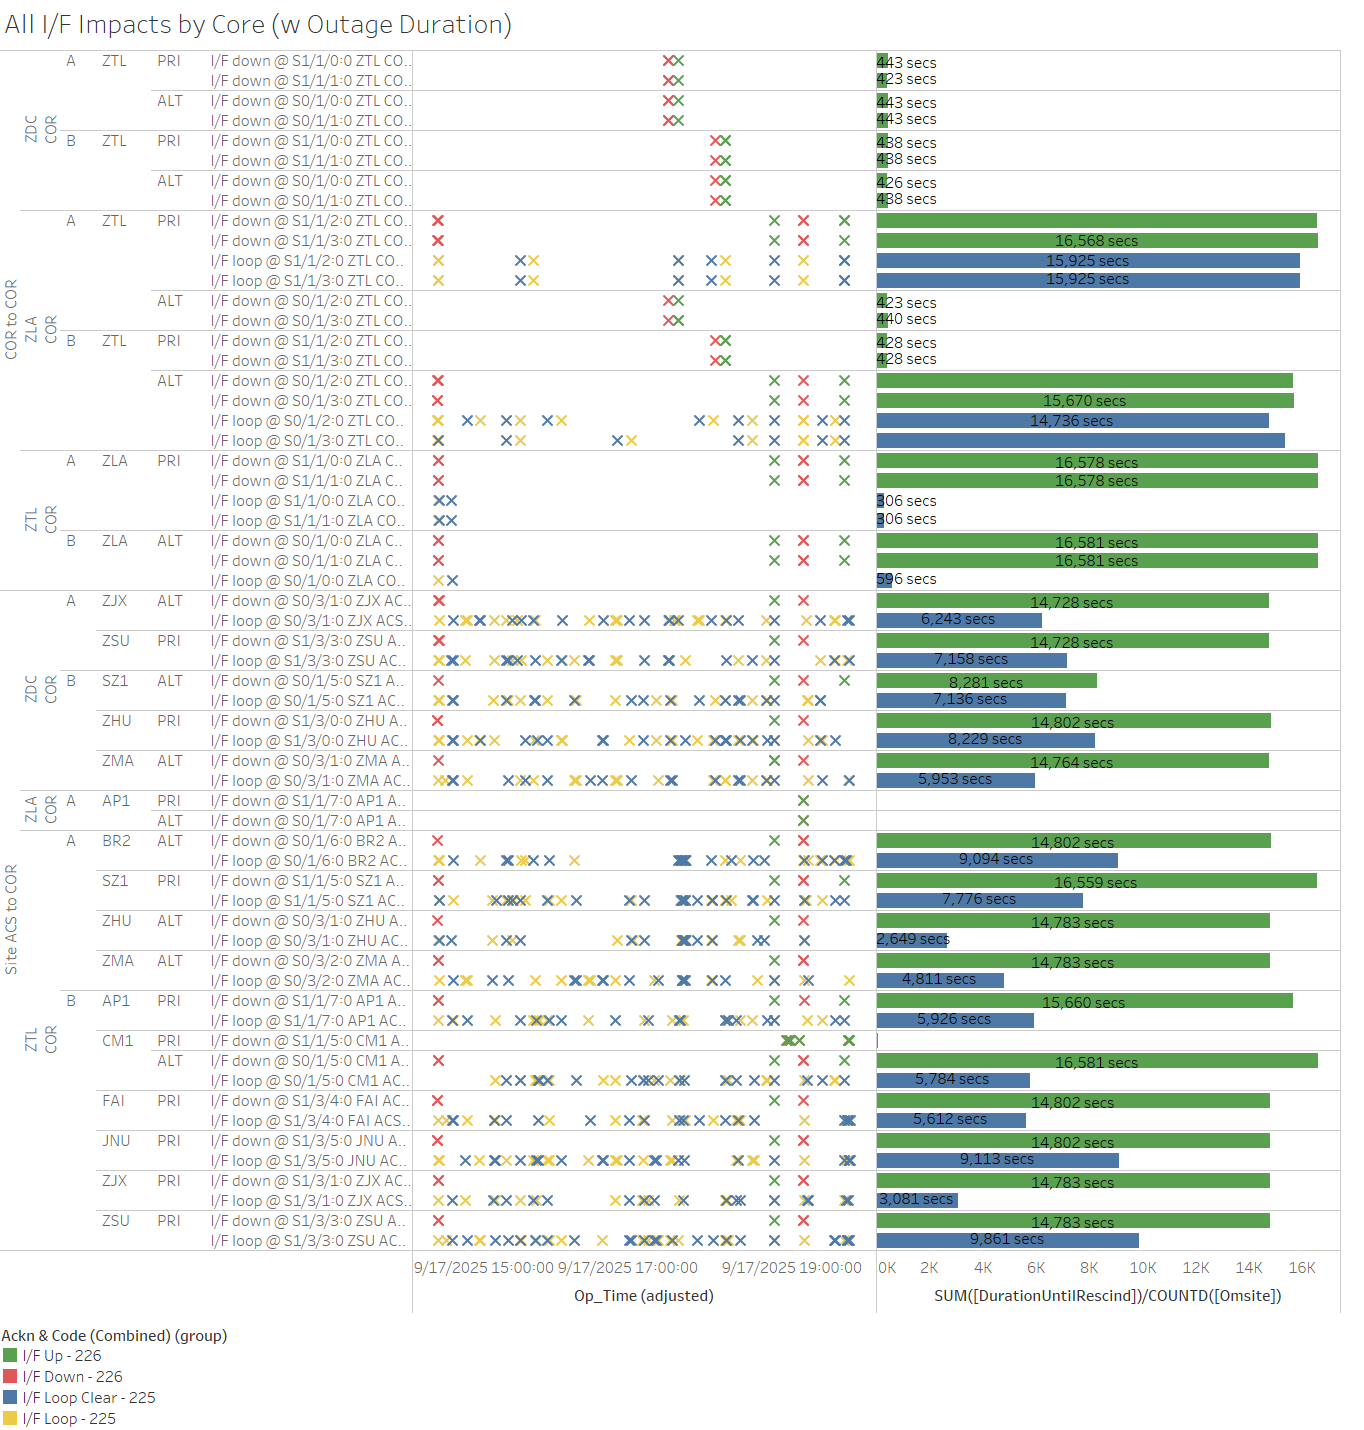
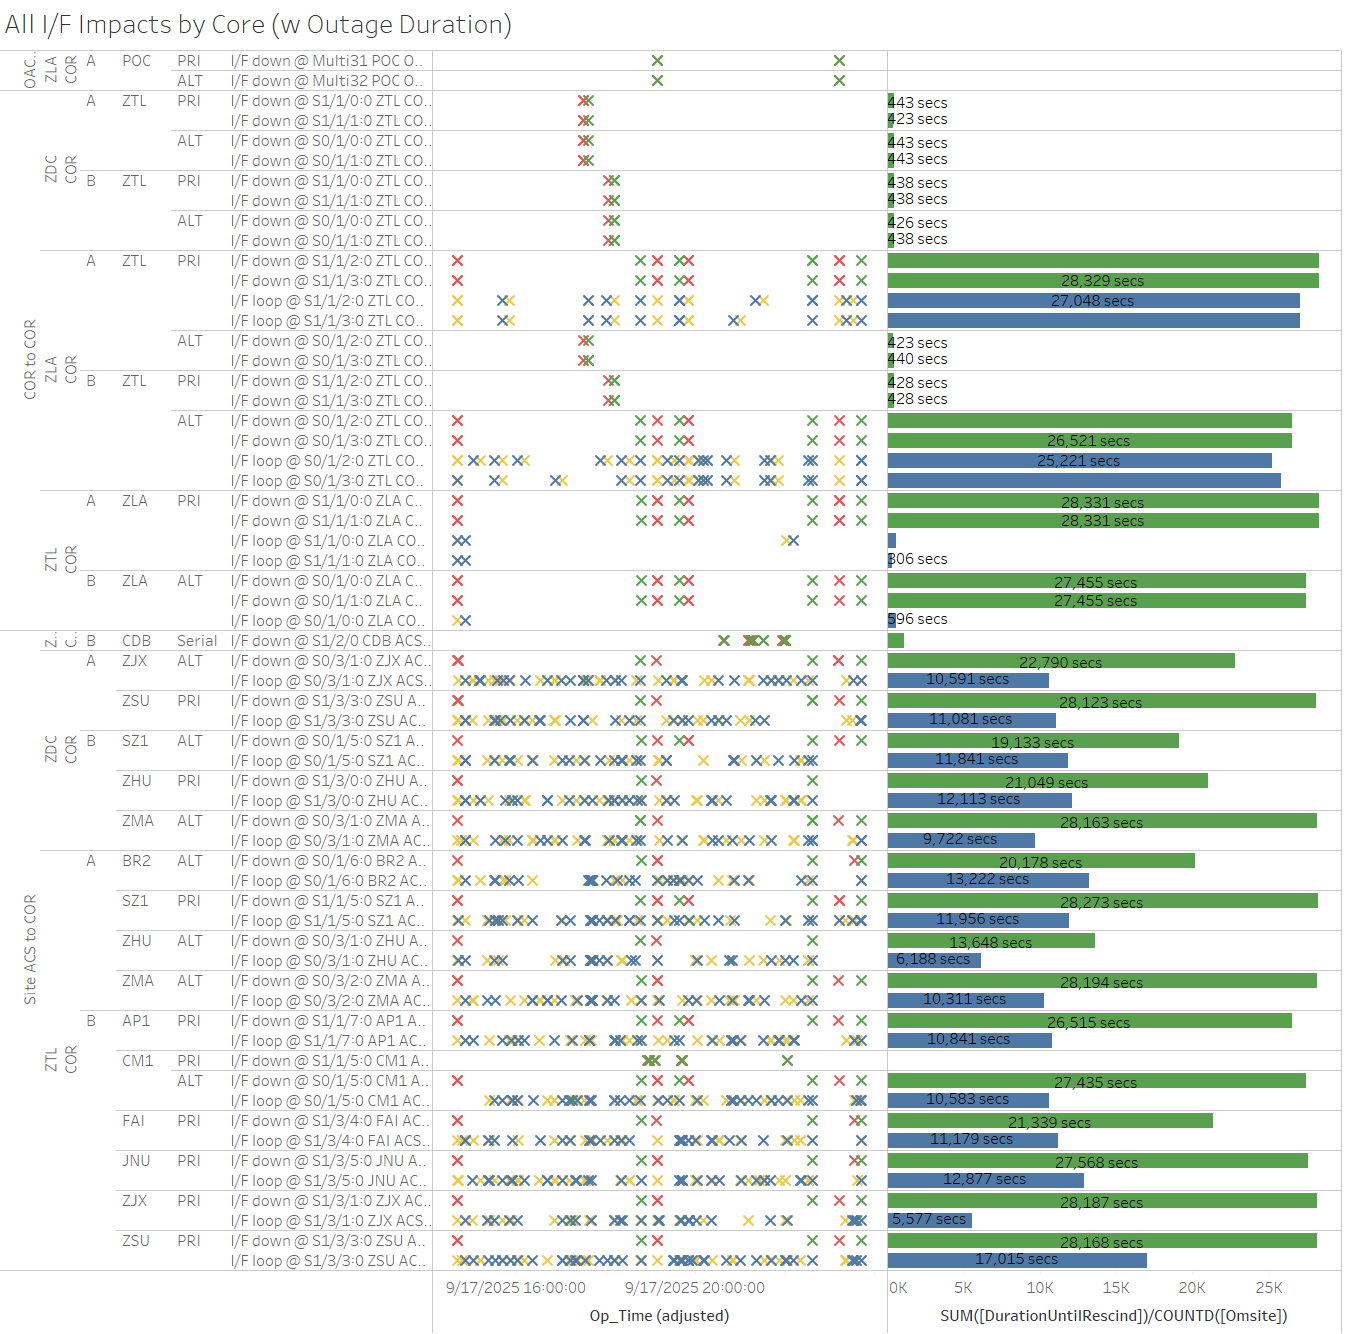
updated with latest on comm event

diff --git a/sysmon/index.html b/sysmon/index.html
@@ -260,7 +260,20 @@
                                                                                     again; <strong>several lines cleared
                                                                                           at 9/17 19:38 (~1789
                                                                                           seconds)</strong></li>
+                                                                              <li>9/17 19:50 - Comms looped again;
+                                                                                    <strong>lines cleared at 9/17 22:36
+                                                                                          (~9941 seconds)</strong>
+                                                                                    <ul>
+                                                                                          <li>9/17 23:12 - Comms looped
+                                                                                                again; <strong>lines
+                                                                                                      cleared at 9/17
+                                                                                                      23:42 (~1798
+                                                                                                      seconds)</strong>
+                                                                                          </li>
+                                                                                    </ul>
+                                                                              </li>
                                                                         </ul>
+
                                                                   </li>
                                                             </ul>
                                                             <p class="text-center"><img class="img-thumbnail col-md-12"
@@ -308,9 +321,12 @@
                                                                         <strong>last event cleared at 9/16 22:40 (~721
                                                                               seconds total)</strong>
                                                                   </li>
+                                                                  <li>9/17 18:55 - CM1 Ring 2 PRI comms flapping (also
+                                                                        affected by widespread comm outage above);
+                                                                        <strong>last event cleared at 9/17 22:03 (~86
+                                                                              seconds)</strong>
+                                                                  </li>
                                                             </ul>
-
-
 
                                                             <p class="fw-bold">Other Sites</p>
                                                             <ul>
@@ -360,6 +376,9 @@
                                                                   <li>9/17 09:46 - ZLA-POC COR-OAC Ring 1 PRI / Ring 2
                                                                         ALT comms down hard; <strong>lines cleared at
                                                                               9/17 09:48 (~129 seconds)</strong></li>
+                                                                  <li>9/17 20:38 - CDB Ring 2 comms flapping;
+                                                                        <strong>last event cleared at 9/17 22:00 (~1145
+                                                                              seconds total)</strong></li>
                                                             </ul>
 
 
